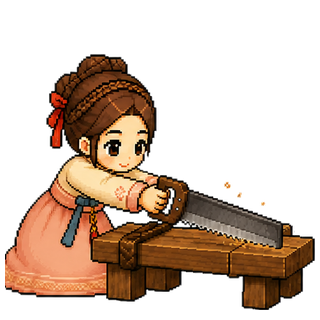
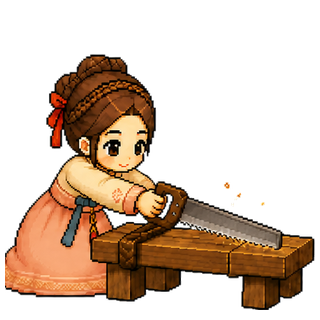
v0.64.03-debug: 목공소 단일 톱과 NPC 비율 보정

diff --git a/src/index.html b/src/index.html
@@ -4,22 +4,22 @@
   <meta charset="utf-8">
   <meta name="viewport" content="width=device-width,initial-scale=1,viewport-fit=cover">
   <title>선화공주 만들기 — 자산 로딩 테스트</title>
-  <link rel="stylesheet" href="style.css?v=0.64.02-debug">
-  <link rel="stylesheet" href="schedule.css?v=0.64.02-debug">
-  <link rel="stylesheet" href="schedule-pm2.css?v=0.64.02-debug">
-  <link rel="stylesheet" href="birthday.css?v=0.64.02-debug">
-  <link rel="stylesheet" href="prologue.css?v=0.64.02-debug">
+  <link rel="stylesheet" href="style.css?v=0.64.03-debug">
+  <link rel="stylesheet" href="schedule.css?v=0.64.03-debug">
+  <link rel="stylesheet" href="schedule-pm2.css?v=0.64.03-debug">
+  <link rel="stylesheet" href="birthday.css?v=0.64.03-debug">
+  <link rel="stylesheet" href="prologue.css?v=0.64.03-debug">
   <link rel="stylesheet" href="rain-v2.css">
-  <link rel="stylesheet" href="naming.css?v=0.64.02-debug">
-  <link rel="stylesheet" href="guardian.css?v=0.64.02-debug">
-  <link rel="stylesheet" href="guardian-anime.css?v=0.64.02-debug">
-  <link rel="stylesheet" href="naming-stable.css?v=0.64.02-debug">
-  <link rel="stylesheet" href="live-changes.css?v=0.64.02-debug">
-  <link rel="stylesheet" href="dungeon.css?v=0.64.02-debug">
-  <link rel="stylesheet" href="collection.css?v=0.64.02-debug">
-  <link rel="stylesheet" href="loading.css?v=0.64.02-debug">
-  <link rel="stylesheet" href="record.css?v=0.64.02-debug">
-  <link rel="stylesheet" href="item-art.css?v=0.64.02-debug">
+  <link rel="stylesheet" href="naming.css?v=0.64.03-debug">
+  <link rel="stylesheet" href="guardian.css?v=0.64.03-debug">
+  <link rel="stylesheet" href="guardian-anime.css?v=0.64.03-debug">
+  <link rel="stylesheet" href="naming-stable.css?v=0.64.03-debug">
+  <link rel="stylesheet" href="live-changes.css?v=0.64.03-debug">
+  <link rel="stylesheet" href="dungeon.css?v=0.64.03-debug">
+  <link rel="stylesheet" href="collection.css?v=0.64.03-debug">
+  <link rel="stylesheet" href="loading.css?v=0.64.03-debug">
+  <link rel="stylesheet" href="record.css?v=0.64.03-debug">
+  <link rel="stylesheet" href="item-art.css?v=0.64.03-debug">
   <style>.prologue:not(.outdoor-rain) .rain{display:none}</style>
 </head>
 <body>
@@ -48,7 +48,7 @@
       </div>
       <span class="loading-caption">이야기를 열 준비가 되었어요</span>
       <button class="studio-start-sound" id="studioStartSound" type="button">인연의 문을 열기</button>
-      <small class="loading-version" aria-label="현재 게임 버전">v0.64.02-debug</small>
+      <small class="loading-version" aria-label="현재 게임 버전">v0.64.03-debug</small>
     </section>
     <section class="prologue" id="prologue" aria-label="이야기 시작 영상" hidden>
       <audio id="prologueMusic" src="../assets/audio/music/prologue-lantern-and-dawn.mp3" preload="auto" loop></audio>
@@ -243,6 +243,6 @@
       </div>
     </section>
   </main>
-  <script src="schedule-layer-manifests.js?v=0.64.02-debug"></script><script src="story-data.js?v=0.64.02-debug"></script><script src="app.js?v=0.64.02-debug"></script>
+  <script src="schedule-layer-manifests.js?v=0.64.03-debug"></script><script src="story-data.js?v=0.64.03-debug"></script><script src="app.js?v=0.64.03-debug"></script>
 </body>
 </html>

diff --git a/src/schedule.css b/src/schedule.css
@@ -2116,6 +2116,7 @@
 .phone.playing:not(.market-playing):not(.vacation-playing) .activity-stage.action-woodwork.schedule-layered:has(.schedule-scene-layer.success-b) .stage-character.pixel-sprite{left:40%!important;width:210px!important;height:174px!important;bottom:3%!important}
 .phone.playing:not(.market-playing):not(.vacation-playing) .activity-stage.action-woodwork.schedule-layered:has(.schedule-scene-layer.success-a) .stage-character.pixel-sprite>img,
 .phone.playing:not(.market-playing):not(.vacation-playing) .activity-stage.action-woodwork.schedule-layered:has(.schedule-scene-layer.success-b) .stage-character.pixel-sprite>img{transform:none!important;object-fit:contain!important;object-position:center bottom!important}
+.phone.playing:not(.market-playing):not(.vacation-playing) .activity-stage.action-woodwork.schedule-layered .schedule-scene-layer.layer-npc{width:172px!important;bottom:var(--layer-floor)!important}
 .phone.playing:not(.market-playing):not(.vacation-playing) .activity-stage.action-reading .stage-character.pixel-sprite{left:23%!important}
 .phone.playing:not(.market-playing):not(.vacation-playing) .activity-stage.action-reading .stage-npc.npc-teacher{left:67%!important;right:auto!important;width:146px!important;height:146px!important}
 

diff --git a/src/app.js b/src/app.js
@@ -237,7 +237,7 @@ const vacationIllustrations=[
 function unifiedAgeFolder(){return '09';}
 function scheduleFramePath(file){return `../assets/characters/seonhwa/schedule-actions/${file}`;}
 function scheduleBasePath(file){return `../assets/characters/seonhwa/schedule-base/${file}`;}
-const scheduleAssetRevision='0.64.02-debug';
+const scheduleAssetRevision='0.64.03-debug';
 const scheduleQaParams=new URLSearchParams(location.search);
 const moonlightStandaloneQa=scheduleQaParams.get('qaHoliday')==='chuseok';
 const scheduleLayerStandaloneQa=scheduleQaParams.get('qa')==='1';

diff --git a/UPDATE_ATTEMPTS.md b/UPDATE_ATTEMPTS.md
@@ -460,3 +460,8 @@
 2. 소품을 별도로 흔들지 않고 선화의 손과 공구 접점이 한 이미지 안에서 유지되도록 구성했다.
 3. 아이돌보기 이불 좌표를 아이의 몸 앞/바닥선으로 내리고 선화의 시선을 오른쪽으로 고정했다.
 4. v2 20종, 2,020개 레이어 검사를 다시 통과했다.
+# v0.64.03-debug · 목공소 단일 톱·성인 비율 보정 · 2026-08-23
+
+1. 렌더러 중복이 아니라 원화의 두꺼운 중첩 톱날이 원인임을 DOM과 화면에서 확인했다.
+2. 톱질 3프레임을 손잡이 하나·톱날 하나로 다시 제작했다.
+3. 목수 NPC를 선화보다 20% 이상 크게 보이도록 172px 규격으로 조정했다.

diff --git a/CHANGELOG.md b/CHANGELOG.md
@@ -1024,3 +1024,8 @@
 - 패턴별 전용 선화 프레임을 선택할 수 있도록 공통 레이어 렌더러 확장
 - 아이돌보기에서 선화가 아이를 향하는 방향을 유지하고 이불 효과를 아이 몸 앞 바닥선으로 이동
 - file:// 안전 명세 번들과 레이어 검증 결과 갱신
+# v0.64.03-debug · 2026-08-23
+
+- 목공소 톱질 원화에서 겹쳐 보이던 이중 톱날을 단일 톱으로 재제작
+- 목수 NPC 표시 폭을 146px에서 172px로 보정해 어린 선화보다 성인이 크게 보이도록 조정
+- NPC와 선화+작업대의 바닥선을 동일 기준으로 고정
